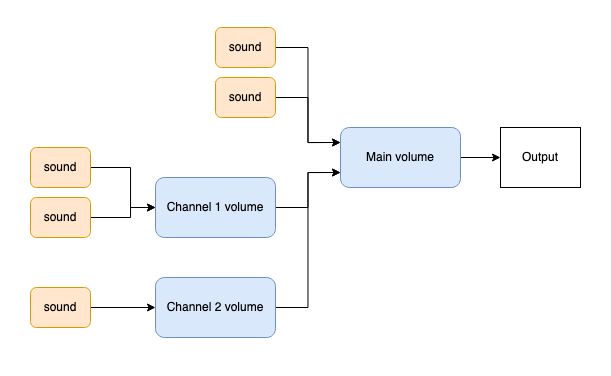
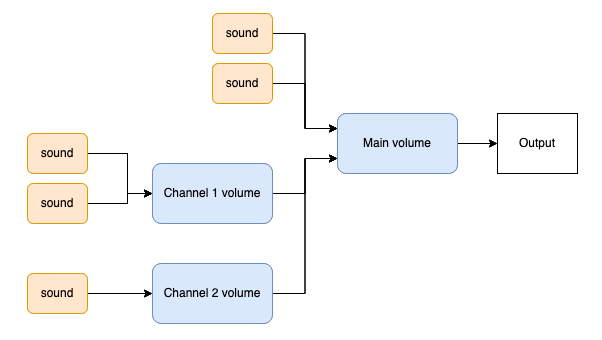
Add sound diagram, update images + source

Changed region(s): [[0.0299, 0.0294, 0.5681, 0.9706], [0.5681, 0.3235, 0.9568, 0.5294], [0.598, 0.3824, 0.7176, 0.4412]]

diff --git a/packages/channels/README.md b/packages/channels/README.md
@@ -54,6 +54,21 @@ channelsInstance.setVolume(0.5);
 myChannel.setVolume(0.5);
 ```
 
+## Structure
+Everything in `Channels` connects to one main volume node, which is the final step before going to the actual sound output . A channel has its own volume instance, which connect to the main volume.
+
+Sounds can be played either on a channel, or directly on the main output.
+
+![Main structure](https://github.com/petervdn/channels/blob/830898e927855823f311960070afcf7158fc0ab6/assets/overview-diagram.png?raw=true)
+
+### Volume structure
+The volume instances contain two gain nodes: one for applying volume, and a separate one for fading. They can also contain an option chain of audio effects.
+
+![Volume structure](https://github.com/petervdn/channels/blob/14-add-explanatory-image-of-routing-to-readme/assets/volume-diagram.png?raw=true)
+
+### Sound structure
+
+
 ## Creating a Channels instance
 
 When creating a `Channels` object, two parameters are required: the location of the sound files, and the extension to use:
